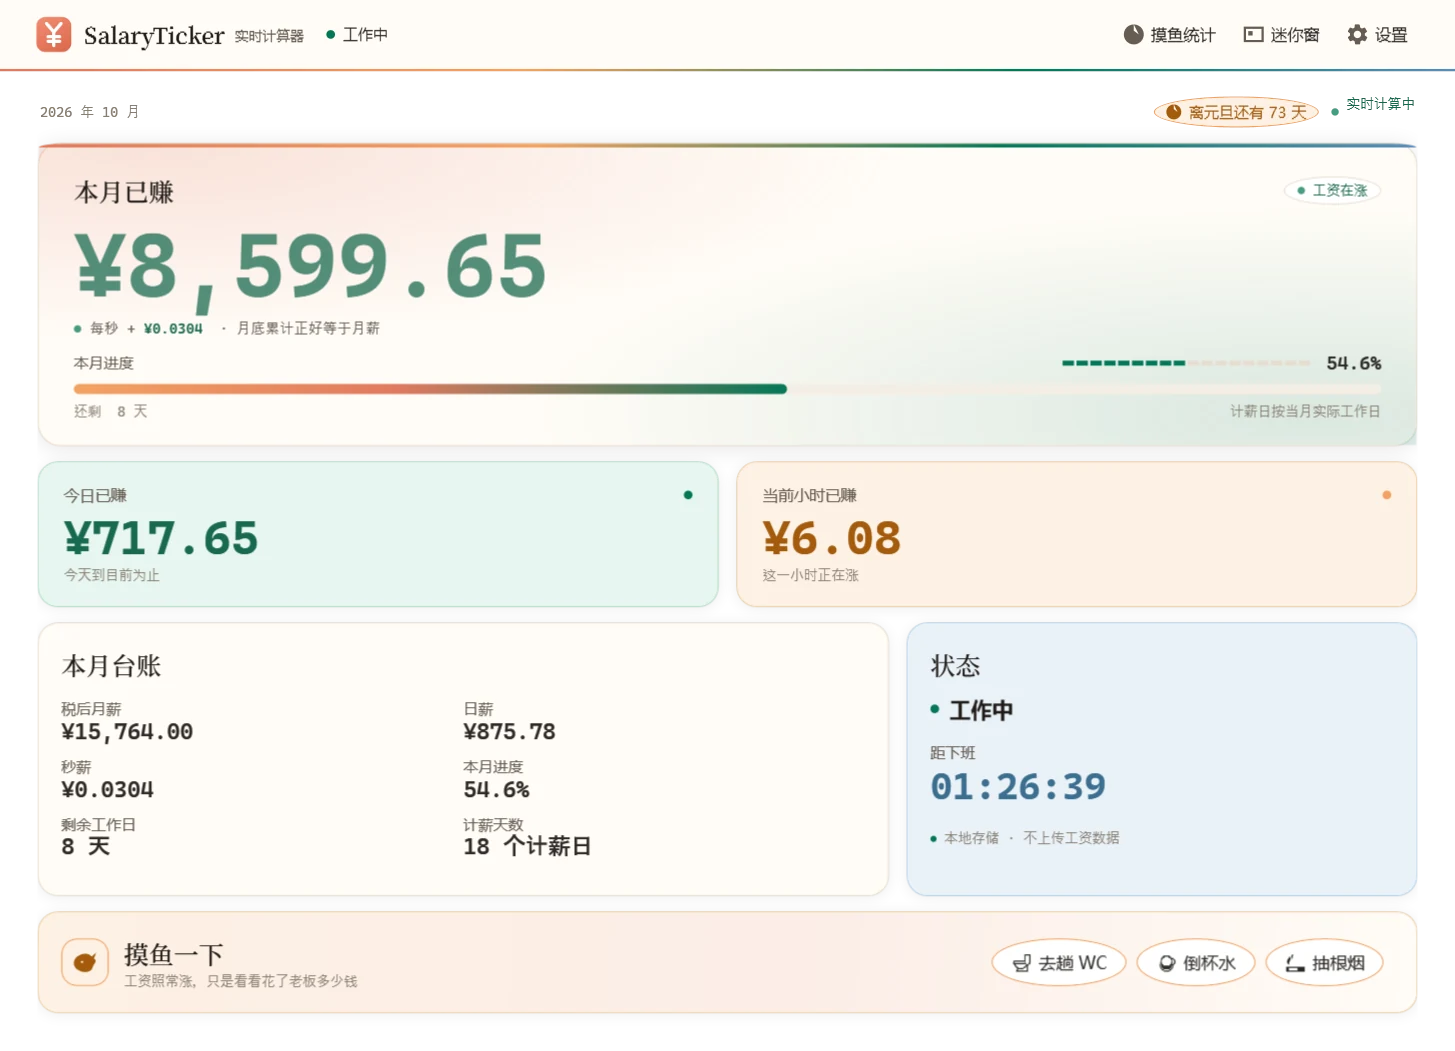
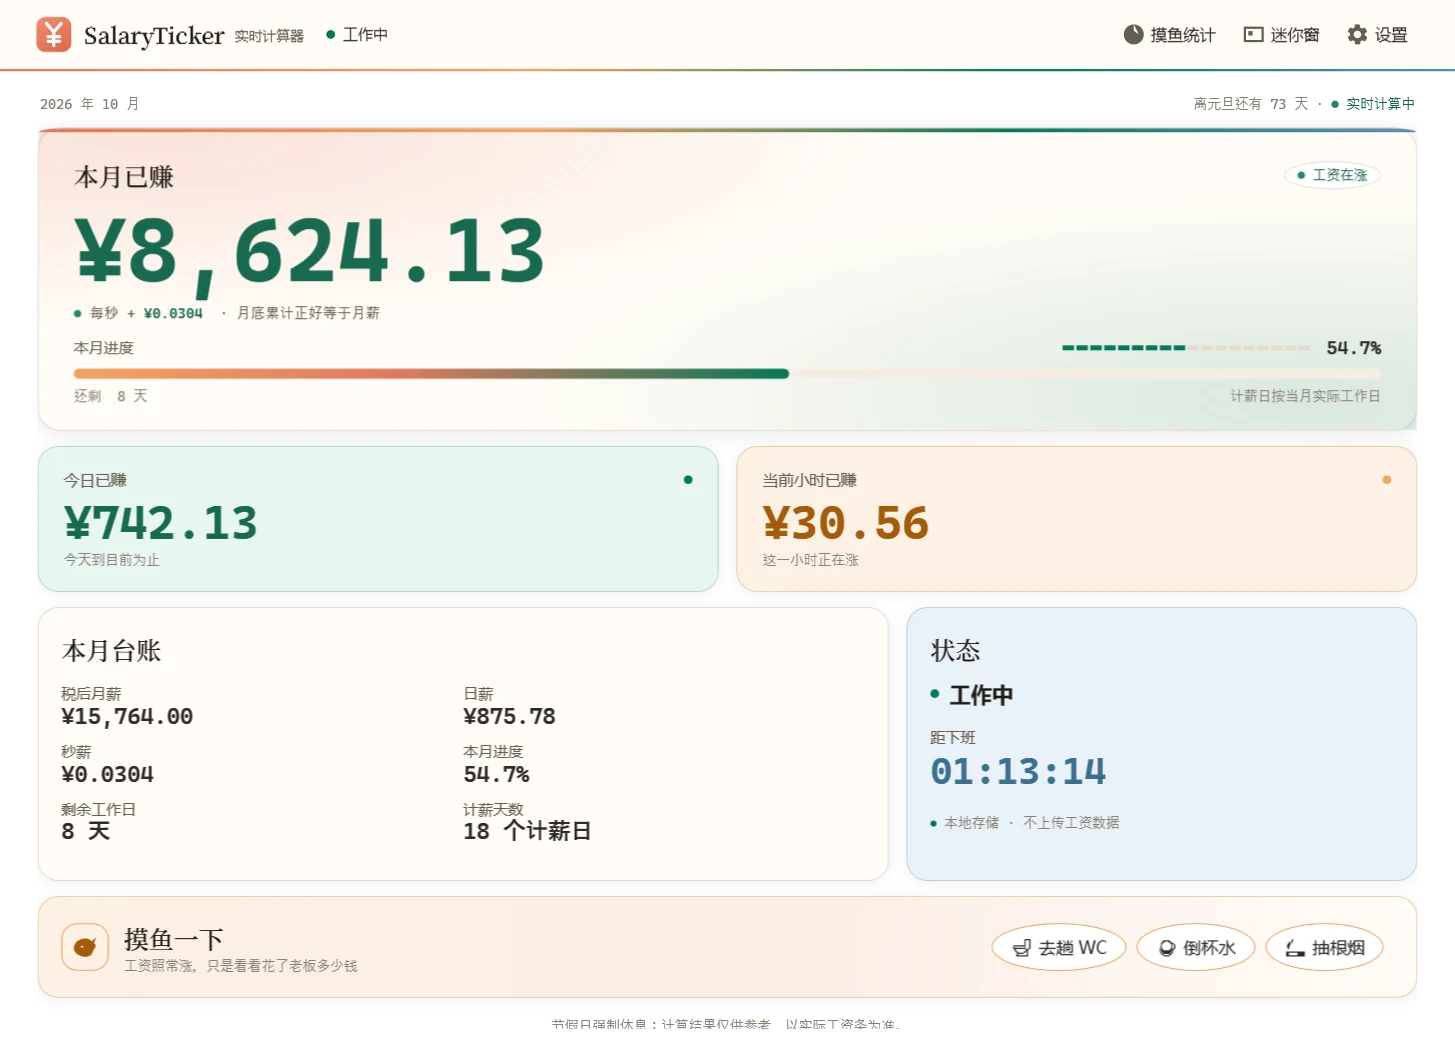
fix(ui): 假期倒计时改回顶部上下文文本样式
去掉琥珀胶囊与时钟图标，沿用 WMonoSmallStyle，和「实时计算中」同一行；不新增组件。同步更新官网 app-shot。

diff --git a/Views/Pages/DashboardView.xaml b/Views/Pages/DashboardView.xaml
@@ -22,24 +22,12 @@
                            Style="{StaticResource WMonoSmallStyle}"
                            VerticalAlignment="Center"/>
                 <StackPanel DockPanel.Dock="Right" Orientation="Horizontal" VerticalAlignment="Center">
-                    <Border Background="{StaticResource WAmberSoftBrush}"
-                            BorderBrush="{StaticResource WAmberBrush}"
-                            BorderThickness="1" CornerRadius="999"
-                            Padding="9,3" Margin="0,0,10,0"
-                            VerticalAlignment="Center">
-                        <StackPanel Orientation="Horizontal">
-                            <Path Data="{StaticResource IconHistory}"
-                                  Fill="{StaticResource WAmberStrongBrush}"
-                                  Width="12" Height="12" Stretch="Uniform"
-                                  VerticalAlignment="Center"/>
-                            <TextBlock Text="{Binding NextHolidayText}"
-                                       FontFamily="{StaticResource WFontBody}"
-                                       FontSize="11.5"
-                                       Foreground="{StaticResource WAmberStrongBrush}"
-                                       Margin="6,0,0,0"
-                                       VerticalAlignment="Center"/>
-                        </StackPanel>
-                    </Border>
+                    <TextBlock Text="{Binding NextHolidayText}"
+                               Style="{StaticResource WMonoSmallStyle}"
+                               VerticalAlignment="Center"/>
+                    <TextBlock Text="·"
+                               Style="{StaticResource WMonoSmallStyle}"
+                               Margin="6,0" VerticalAlignment="Center"/>
                     <Ellipse Style="{StaticResource WLiveDotStyle}" Margin="0,0,6,0"/>
                     <TextBlock Text="实时计算中"
                                Style="{StaticResource WMonoSmallStyle}"

diff --git a/docs/ui-refresh/decision.md b/docs/ui-refresh/decision.md
@@ -251,7 +251,7 @@
   - 有未来节假日 → 「离{名称}还有 N 天」
   - 当前年假期表已用完且包含元旦 → 推断下一年元旦
   - 其他 → 「假期表待更新」
-- `MainViewModel.NextHolidayText` 随每个快照刷新；主窗顶部上下文行增加琥珀色胶囊（时钟图标 + 文案），例如「离元旦还有 73 天」。
+- `MainViewModel.NextHolidayText` 随每个快照刷新；主窗顶部上下文行以现有 `WMonoSmallStyle` 纯文本显示（不新增胶囊/图标），例如「离元旦还有 73 天 · ● 实时计算中」。
 - 新增 5 个单元测试（`NextHolidayCalculatorTests`），测试总数 231 → 236。
 - 官网 `app-shot` 同步更新（顶部含假期倒计时）；`mini-shot` 不变。
 - 验证：`dotnet build` 通过、`dotnet test` 236 全绿、`dotnet run -- smoke` 全部 OK；截图 `app-shot-new.png`。
